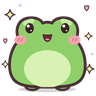
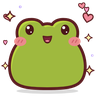
1.99fs site: kawaii Pepe thumbnails redrawn for the one-blob olive redesign + the new "Floaty hearts" extra (mod-hearts.png)

diff --git a/test/pepelook.test.js b/test/pepelook.test.js
@@ -203,7 +203,7 @@ test("panel markup: Pepe's look section for admins only, thumbnails exist for ev
   // 1.99fo: the base picker + extras grid, with a thumbnail per base and per kawaii modifier
   assert.match(html, /id="plBases"/);
   assert.match(html, /id="plMods"/);
-  for (const id of ["base-pixel", "base-kawaii", "mod-bow", "mod-flowercrown", "mod-catears", "mod-strawberryhat", "mod-sparkles", "mod-headset"]) {
+  for (const id of ["base-pixel", "base-kawaii", "mod-bow", "mod-flowercrown", "mod-catears", "mod-strawberryhat", "mod-sparkles", "mod-headset", "mod-hearts"]) {
     assert.ok(fs.existsSync(path.join(dir, id + ".png")), id + ".png");
   }
 });
